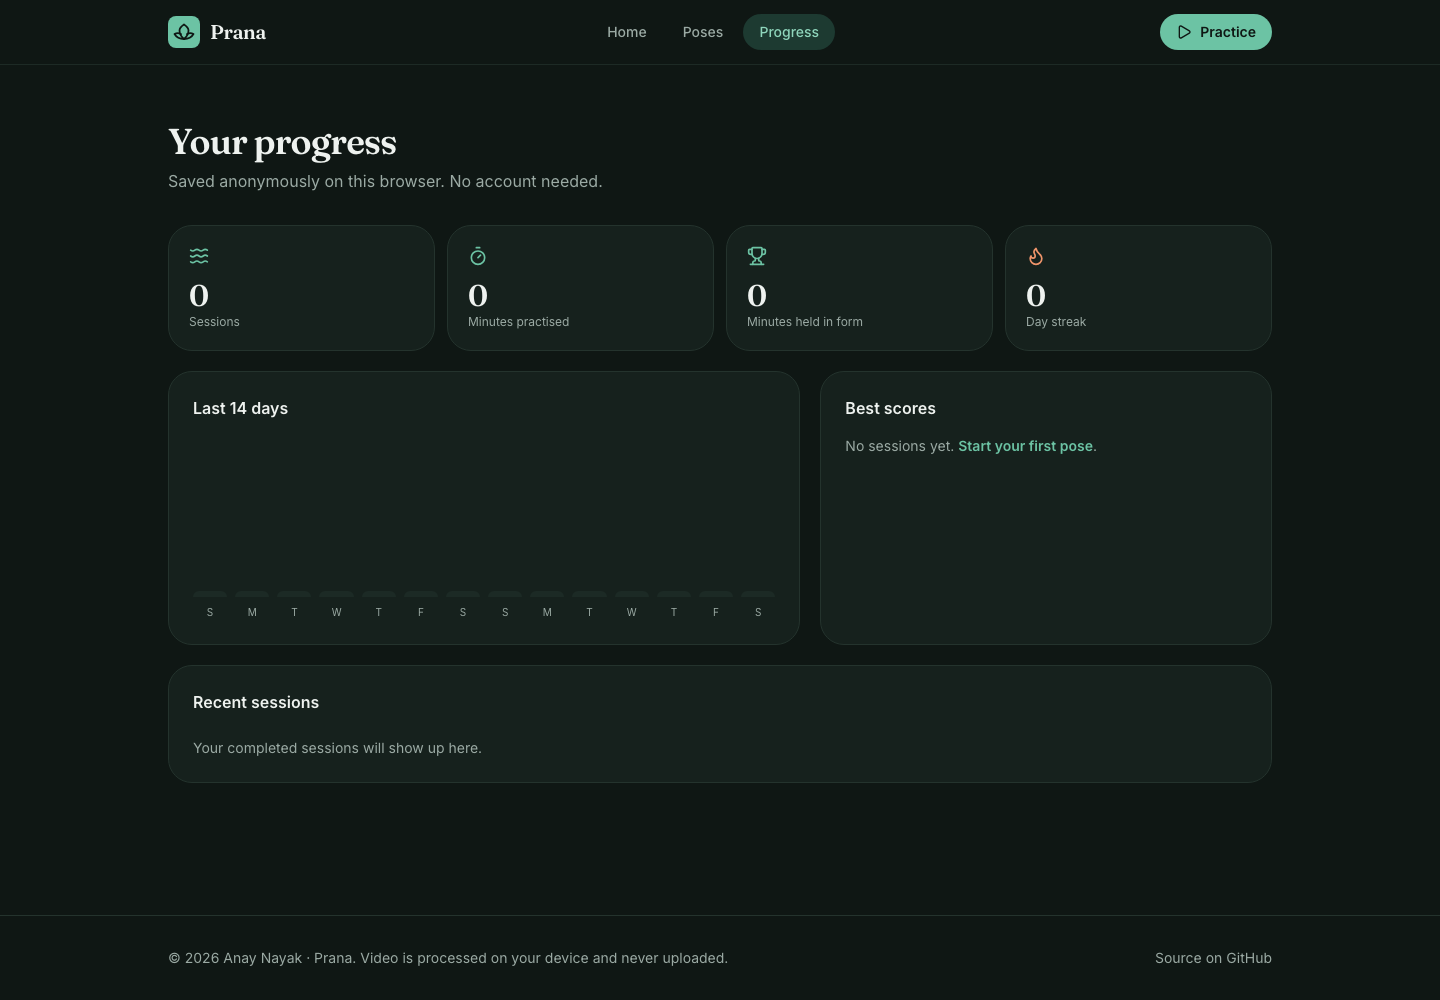
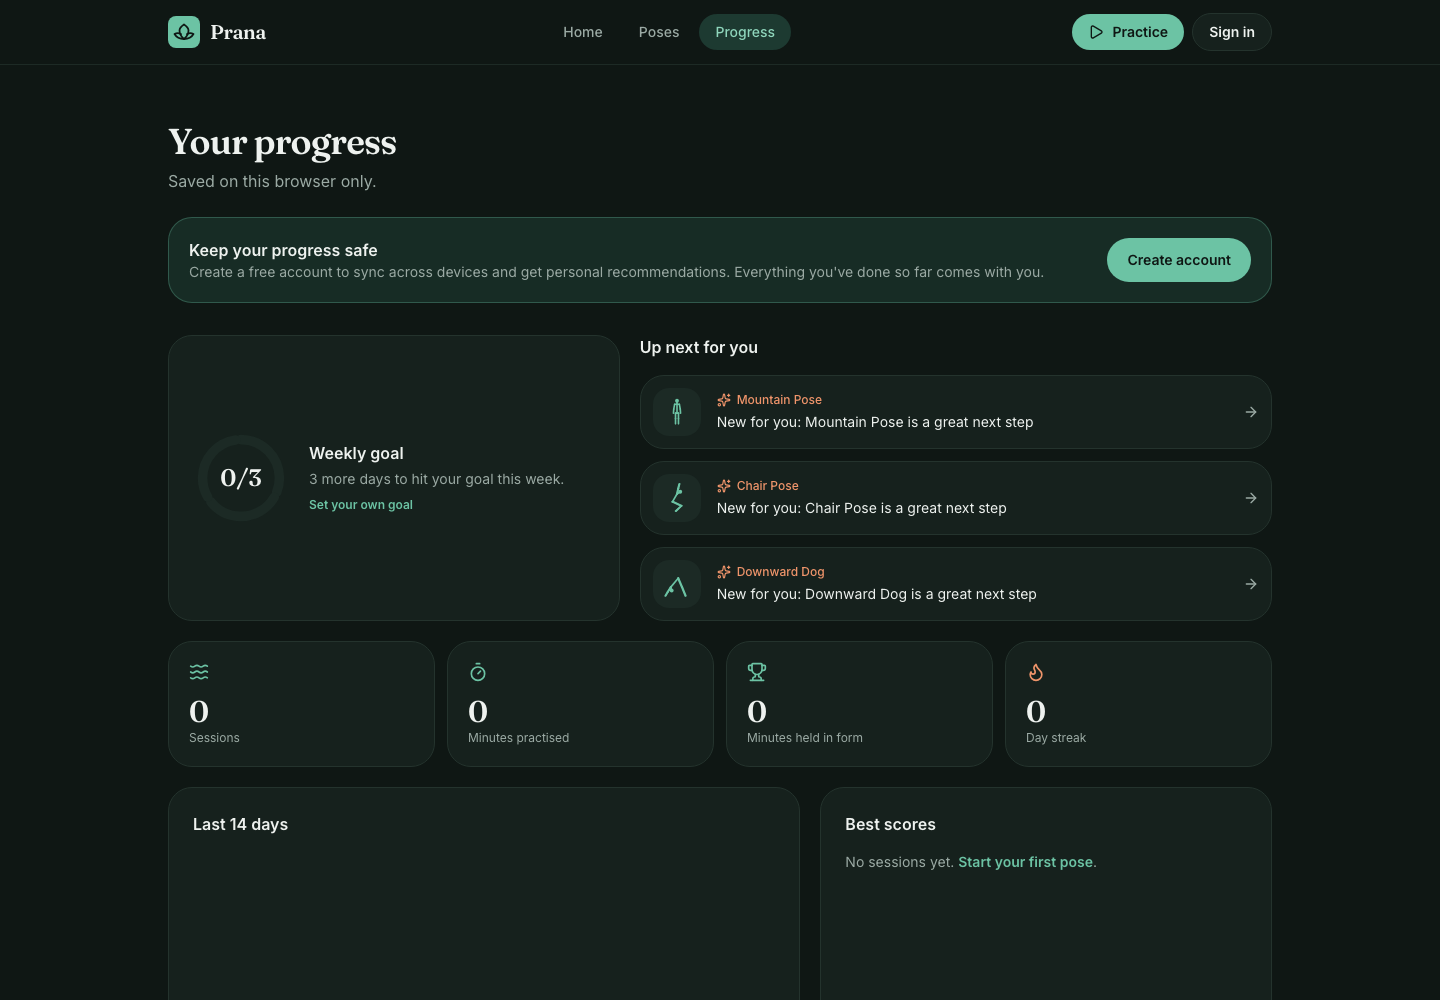
Document accounts, personal coaching and small-room support
- Features, architecture diagram (Google Identity Services, framing model)
- New sections with diagrams: small-room space awareness (fit decision
  flow) and accounts (guest-to-account sequence), recommendation formula
- Data model with auth_sessions and profile fields; auth security notes
- API, configuration (GOOGLE_CLIENT_ID setup), project structure, roadmap
- Refreshed Progress screenshot

diff --git a/README.md b/README.md
@@ -35,8 +35,11 @@ Prana watches your form through your camera, measures every joint in 3D, scores 
 | 🔁 **Either-side detection** | Asymmetric poses (Tree, Warrior II, Triangle) are scored in both orientations, so you can practise on whichever side you like. |
 | 🗣 **Spoken coaching** | Short, specific corrections ("Straighten your left leg") through the browser's speech engine, throttled so it never nags. |
 | ⏱ **Hold timer** | A pose only counts while you're in good alignment. Hold it for the target time to complete it. |
-| 📊 **Progress tracking** | Streaks, a 14-day activity chart, best score per pose and session history, all stored anonymously. |
-| 🔒 **Private by design** | Inference is 100% on-device. No accounts, no uploads. One click deletes everything the server knows about you. |
+| 🏠 **Small-room aware** | Measures how much space your camera sees (in multiples of *your* height), learns your room's limit, and tells you per pose whether it fits, to rotate your phone, switch to the 0.5× wide lens, or that it'll score the joints it can see. |
+| 👤 **Accounts (optional)** | Sign in with Google or email/password to sync across devices. Try it as a guest first: your guest progress moves into your account when you sign up. |
+| 🎯 **Personal coaching** | Weekly practice goal, score history per pose, your weakest joints, and "Up next for you" picks, each with a reason. |
+| 📊 **Progress tracking** | Streaks, a 14-day activity chart, best score per pose and session history. |
+| 🔒 **Private by design** | Inference is 100% on-device; video is never uploaded. Delete your data or your whole account in one click. |
 | 📱 **Mobile-first, responsive** | Works on phones, tablets and laptops, with a bottom tab bar on mobile and a screen wake lock during practice. |
 
 <table>
@@ -62,19 +65,26 @@ flowchart LR
         CAM[Camera<br/>getUserMedia] --> VID[Video frames]
         VID --> ML["MediaPipe Pose Landmarker<br/>BlazePose GHUM · WASM + WebGL2"]
         ML --> ENG["Pose engine<br/>3D angles · scoring · cues"]
+        ML --> FRAME["Framing & room model<br/>cut-offs · space in body-heights"]
         ENG --> UI["React UI<br/>overlay · score · hold timer"]
+        FRAME --> UI
         ENG --> TTS["Web Speech API<br/>voice coach"]
+        FRAME -. per-camera room profile .-> LS[(localStorage)]
     end
 
     subgraph Render["☁ Render (Docker web service)"]
-        API["FastAPI<br/>/api/*"]
+        API["FastAPI<br/>auth · poses · sessions · insights"]
         STATIC["Static files<br/>SPA · .task models · WASM"]
     end
 
-    DB[("PostgreSQL<br/>users · practice_sessions")]
+    DB[("PostgreSQL<br/>users · auth_sessions · practice_sessions")]
+    GIS["Google Identity Services"]
 
     STATIC -- "HTML/JS, model weights<br/>(one-time, cached)" --> Device
     UI -- "session summary only<br/>(JSON, no video)" --> API
+    UI -- "Sign in with Google" --> GIS
+    GIS -- "ID token" --> UI
+    API -- "verify token signature" --> GIS
     API --> DB
 ```
 
@@ -85,7 +95,9 @@ flowchart LR
 | Pose inference | Browser (GPU/WASM) | Real-time latency (~30 fps), privacy, zero inference cost |
 | Scoring, cues, voice | Browser | Must react every frame; no round trip |
 | Pose library (targets, cues) | API → `GET /api/poses` | Single source of truth, editable without a frontend release |
-| History, stats, streaks | API + Postgres | Survives browser restarts and redeploys; anonymous identity |
+| Framing & room awareness | Browser (+ localStorage per camera) | Needs every frame; a room profile is device-specific, not personal data |
+| Accounts, login sessions | API + Postgres | Server-side sessions, hashed tokens, revocable |
+| History, stats, goals, recommendations | API + Postgres | Synced across devices for accounts; guests keep an anonymous identity |
 | Model weights + WASM | Same origin, immutable cache | Self-hosted, SHA-256 pinned, no third-party CDN at runtime |
 
 ---
@@ -208,15 +220,92 @@ Joints that matter most for a pose carry more weight (e.g. the standing knee in 
 
 ---
 
+## 🏠 Small rooms: framing & space awareness
+
+Many people can't stand 3 m from their camera. Prana adapts instead of just saying "step back".
+
+**1. Show everything the camera sees.** The preview uses the camera's own aspect ratio with no cropping, and the stream is requested in portrait on portrait screens, so a standing body gets about 1.8× more vertical room on a phone.
+
+**2. Measure the space in body-heights.** From each visible body segment Prana knows its typical share of standing height (torso ≈ 0.30, thigh ≈ 0.245, shin ≈ 0.246, upper arm ≈ 0.186). Comparing a segment's length on screen with its real 3D length gives the camera's field of view at the user's distance, *in multiples of the user's own height*. That makes it independent of how tall they are:
+
+```
+scale  = max over segments( on-screen length / 3D length )       ← least foreshortened segment
+height = median over segments( 3D length / typical share )
+view   = 1 / (scale × height)  body-heights tall,  × aspect ratio wide
+```
+
+**3. Learn the room's limit.** The largest view seen on a camera is how far back this room lets the user go. It grows automatically during practice, or in one shot with **"Measure my space"** (step back as far as you can, then hold still). It is stored per camera in the browser.
+
+**4. Decide per pose.** Each pose records the space it needs (e.g. Warrior II ≈ 1.45 × 0.9 body-heights, Mountain ≈ 0.35 × 1.05):
+
+```mermaid
+flowchart TD
+    R["Room view (W × H body-heights)<br/>+ pose needs (w × h)"] --> F{"W ≥ w and H ≥ h?"}
+    F -- yes --> OK["✅ Fits your space"]
+    F -- no --> RO{"Fits if the phone is rotated?<br/>(swap W and H)"}
+    RO -- yes --> ROT["🔄 Turn your phone sideways / upright"]
+    RO -- no --> WL{"Device has a 0.5× ultra-wide lens<br/>and ~1.7× view would fit?"}
+    WL -- yes --> WIDE["🔭 Switch to the wide camera"]
+    WL -- no --> TIGHT["🧩 Tight fit: score the key joints that are visible"]
+```
+
+**5. Keep coaching when parts are out of frame.** Scoring needs only the pose's *key* joints (weight ≥ 1.5, e.g. the knees in Mountain Pose), not 70% of every joint. A hand leaving the frame no longer stops practice. Edges where the body is cut off glow, and the hint says what to do: *"Your feet are out of frame. Tilt the camera down slightly, or lower it to hip height."*
+
+These verdicts appear on the practice screen, in a **Your space** panel listing every pose, and as badges in the pose library.
+
+---
+
+## 👤 Accounts & personal coaching
+
+Prana works without an account. Signing in (Google or email/password) syncs progress across devices and unlocks personal goals.
+
+```mermaid
+sequenceDiagram
+    autonumber
+    actor U as User
+    participant App as React app
+    participant G as Google Identity Services
+    participant API as FastAPI
+    participant DB as Postgres
+
+    U->>App: Practise as a guest
+    App->>API: POST /api/sessions
+    API->>DB: create guest user (hashed guest token)
+    API-->>App: 201 + prana_id cookie (HttpOnly)
+    U->>App: Create account / Sign in
+    alt Google
+        App->>G: renderButton (popup)
+        G-->>App: ID token (JWT)
+        App->>API: POST /api/auth/google {credential}
+        API->>G: verify signature, audience, issuer, expiry
+    else Email + password
+        App->>API: POST /api/auth/signup or /login
+        API->>API: Argon2id hash / verify (constant work)
+    end
+    API->>DB: move guest sessions → account, delete guest
+    API->>DB: create login session (SHA-256 of token, 30-day expiry)
+    API-->>App: prana_session cookie (rotated) · guest cookie cleared
+    App->>API: GET /api/stats · /api/recommendations
+    API-->>App: weekly goal, history, "Up next for you"
+```
+
+**Personalization**
+- **Profile:** name, experience level (beginner / intermediate / advanced) and a weekly goal of 1–7 days, shown as a segmented ring.
+- **Per-pose history:** average and best score per session over time, plus joint averages with the weakest joint highlighted.
+- **Recommendations:** each pose is ranked by `(100 − recent average) × 0.6 + days since practised × 2.5`, with a boost that grows as a joint gets weaker (15 + (70 − score) × 0.5 below 70). Untried poses are scored by how well their level matches yours. Every pick comes with a plain reason, e.g. *"Your left hip averages 42 in Plank Pose. Let's work on it."*
+
+---
+
 ## 🧰 Tech stack
 
 | Layer | Technology |
 |---|---|
 | **ML** | MediaPipe Tasks Vision `1.1.0`, Pose Landmarker (BlazePose GHUM full + heavy, float16), WebGL2 GPU delegate, WASM SIMD fallback |
 | **Frontend** | React 19, TypeScript, Vite 8, Tailwind CSS v4, React Router 7, Lucide icons, Web Speech API, Screen Wake Lock API |
-| **Backend** | Python 3.12, FastAPI, Pydantic v2, SQLAlchemy 2, Uvicorn, SlowAPI (rate limiting) |
+| **Backend** | Python 3.12, FastAPI, Pydantic v2, SQLAlchemy 2, Alembic migrations, Uvicorn, SlowAPI (rate limiting) |
+| **Auth** | Google Identity Services (ID tokens verified with `google-auth`), Argon2id (`argon2-cffi`) password hashing, server-side sessions |
 | **Database** | PostgreSQL (production) · SQLite (local dev / fallback) |
-| **Testing** | Pytest (API, security, validation, rate limits) · Vitest (geometry & scoring) · Docker smoke test |
+| **Testing** | Pytest on SQLite *and* Postgres (API, auth, migrations, security, rate limits) · Vitest (geometry, scoring, framing) · Docker smoke test |
 | **Quality** | Ruff (lint + format), strict TypeScript, hash-pinned Python deps, npm lockfile |
 | **Infra** | Multi-stage Docker image, Render Blueprint (web service + managed Postgres), GitHub Actions CI |
 
@@ -229,10 +318,25 @@ Only **summaries** are stored, never images, video or landmarks.
 ```mermaid
 erDiagram
     USERS ||--o{ PRACTICE_SESSIONS : has
+    USERS ||--o{ AUTH_SESSIONS : "signed in on"
     USERS {
         int id PK
-        string token_hash "SHA-256 of a 256-bit random token"
+        bool is_guest
+        string token_hash "guests: SHA-256 of guest token"
+        string email "accounts: unique, lower-cased"
+        string password_hash "Argon2id, null for Google-only"
+        string google_sub "Google account id"
+        string display_name
+        string experience_level
+        int weekly_goal_days
         datetime created_at
+    }
+    AUTH_SESSIONS {
+        int id PK
+        int user_id FK
+        string token_hash "SHA-256 of session token"
+        datetime created_at
+        datetime expires_at
     }
     PRACTICE_SESSIONS {
         int id PK
@@ -253,13 +357,18 @@ erDiagram
 
 - **On-device inference.** Camera frames are processed in the browser and are never sent anywhere.
 - **Anonymous identity.** The first save issues a 256-bit random token in an `HttpOnly`, `Secure`, `SameSite=Lax` cookie scoped to `/api`. The server stores only its SHA-256 hash, and every query is scoped to the caller's user id.
+- **Passwords.** Argon2id with the library's recommended parameters, re-hashed when those change. Unknown emails still run one Argon2 verification, so response time doesn't reveal which emails are registered. Common and trivially weak passwords are rejected.
+- **Login sessions.** Server-side, 256-bit tokens stored only as SHA-256 hashes, 30-day expiry. They rotate on every sign-in, are invalidated on logout, and are all revoked on account deletion.
+- **Google sign-in.** The ID token's signature, audience, issuer and expiry are verified server-side, and the email must be Google-verified. Signing in with Google to an email that has an (unverified) password account links them but **revokes that password and its sessions**, which blocks account pre-hijacking.
+- **Brute force.** Per-IP limits on all auth routes plus a per-email limit on login.
+- **Redirects.** Post-login redirects only go to in-app paths (no open redirects).
 - **CSRF.** State-changing requests must carry an allow-listed `Origin` and a JSON content type (which forces a CORS preflight cross-site).
 - **Strict input validation.** Pydantic schemas with `extra="forbid"`, numeric ranges, a known-pose allow-list and cross-field checks. Validation errors never echo submitted values.
 - **Rate limiting.** Per-IP *and* per-identity limits (SlowAPI). Client IPs are taken only from proxy-appended `X-Forwarded-For` entries, so a spoofed header can't dodge the limit. Point `RATE_LIMIT_STORAGE_URI` at Redis when running more than one instance.
-- **Security headers.** A strict CSP (`script-src 'self' 'wasm-unsafe-eval'`, `connect-src 'self'`, `frame-ancestors 'none'`), HSTS, `nosniff`, `X-Frame-Options: DENY`, and a `Permissions-Policy` that allows the camera for this origin only.
+- **Security headers.** A strict CSP (`script-src 'self' 'wasm-unsafe-eval'` plus only Google's sign-in script, `connect-src 'self'`, `frame-ancestors 'none'`), HSTS, `nosniff`, `X-Frame-Options: DENY`, and a `Permissions-Policy` that allows the camera for this origin only.
 - **Supply chain.** Model files are downloaded from a pinned version and **SHA-256 verified** at build. Python dependencies are installed with `--require-hashes`.
 - **Least privilege.** The container runs as a non-root user, and the database accepts private-network connections only.
-- **Right to be forgotten.** `DELETE /api/sessions` (the "Delete my data" button) removes the user, their sessions and the cookie.
+- **Right to be forgotten.** "Delete my data" (`DELETE /api/sessions`) clears practice history, and "Delete account" (`DELETE /api/me`) removes the account, its login sessions and all history.
 
 ---
 
@@ -271,22 +380,30 @@ prana/
 │   ├── app/
 │   │   ├── main.py          # FastAPI app, error handlers, SPA static serving
 │   │   ├── api.py           # /api routes: poses, sessions, stats
-│   │   ├── poses.py         # Pose library: target angles, cues, illustrations
-│   │   ├── security.py      # Identity cookie, CSRF, headers, rate limits
+│   │   ├── auth.py          # Guests, passwords, login sessions, Google, guest merge
+│   │   ├── auth_api.py      # /api/auth/*, /api/me, /api/config
+│   │   ├── insights.py      # Pose history and recommendations
+│   │   ├── poses.py         # Pose library: targets, space needs, cues, illustrations
+│   │   ├── security.py      # CSRF, headers, client IPs, rate limits
 │   │   ├── schemas.py       # Pydantic request/response models
 │   │   ├── models.py        # SQLAlchemy tables
+│   │   ├── migrate.py       # Runs Alembic on startup (stamps pre-migration DBs)
 │   │   ├── db.py · config.py
-│   ├── tests/               # Pytest suite
+│   ├── migrations/          # Alembic: 0001 baseline, 0002 accounts
+│   ├── tests/               # Pytest suite (runs on SQLite and Postgres)
 │   └── requirements*.txt    # Hash-pinned dependencies
 ├── frontend/
 │   ├── src/
 │   │   ├── lib/
 │   │   │   ├── pose-engine.ts   # Loads MediaPipe (GPU → CPU fallback)
-│   │   │   ├── geometry.ts      # 3D angles, scoring, mirroring, cues (+ tests)
+│   │   │   ├── geometry.ts      # 3D angles, scoring, key joints, mirroring, cues (+ tests)
+│   │   │   ├── framing.ts       # Cut-off detection, space in body-heights, fit verdicts (+ tests)
+│   │   │   ├── camera.ts        # Camera/lens selection, orientation-aware streams
+│   │   │   ├── auth.tsx         # Auth context
 │   │   │   ├── voice.ts         # Throttled speech coach
 │   │   │   └── api.ts           # Typed API client
-│   │   ├── pages/           # Home, Library, Practice, Progress
-│   │   └── components/      # Layout, PoseFigure, ScoreRing, …
+│   │   ├── pages/           # Home, Library, Practice, Progress, PoseProgress, SignIn, Profile
+│   │   └── components/      # Layout, PoseFigure, SpaceCard, GoogleButton, Recommendations, …
 │   └── scripts/fetch-models.mjs # Pinned, checksum-verified model download
 ├── Dockerfile               # Multi-stage: Node build → slim Python runtime
 ├── render.yaml              # One-click Render Blueprint
@@ -328,8 +445,11 @@ docker run -p 8000:8000 -e APP_ENV=development prana   # http://localhost:8000
 
 ```bash
 cd backend && pip install --no-deps -r requirements-dev.txt && pytest && ruff check .
+DATABASE_URL=postgresql://user:pass@localhost:5432/prana_test pytest   # same suite on Postgres
 cd frontend && npm test && npm run typecheck
 ```
+
+Schema changes are made with Alembic (`cd backend && alembic revision -m "..."`). Migrations run automatically when the app starts.
 
 ---
 
@@ -360,6 +480,10 @@ flowchart LR
 | `ALLOWED_ORIGINS` | `RENDER_EXTERNAL_URL` | Extra comma-separated origins, e.g. a custom domain |
 | `RATE_LIMIT_STORAGE_URI` | `memory://` | e.g. `redis://…` for multi-instance rate limiting |
 | `TRUSTED_PROXY_HOPS` | `0` (`3` on Render) | Proxies that append to `X-Forwarded-For`; only those entries are trusted for client IPs |
+| `GOOGLE_CLIENT_ID` | *(unset)* | Public OAuth client ID; enables "Sign in with Google". Email/password works without it |
+| `SESSION_DAYS` | `30` | Login session lifetime |
+
+**Enabling Google sign-in:** in [Google Cloud Console](https://console.cloud.google.com/apis/credentials), create an *OAuth client ID* of type **Web application**. Add your site URL (e.g. `https://prana-yjwl.onrender.com`) under **Authorized JavaScript origins**, and add `http://localhost:8000` and `http://localhost:5173` for local development. Then put the client ID in `GOOGLE_CLIENT_ID` (Render → service → Environment). No client secret is needed: the browser receives a signed ID token and the API verifies it.
 
 > **Free-tier notes.** Render's free web services sleep after 15 minutes of inactivity, so the first request after that takes around a minute. Free Postgres databases expire after 30 days. For a long-lived demo, upgrade the database, or point `DATABASE_URL` at any Postgres provider (e.g. Neon or Supabase). The practice experience itself never depends on the backend being awake once the page has loaded.
 
@@ -375,14 +499,19 @@ Interactive docs at **`/api/docs`** (OpenAPI).
 | `GET` | `/api/poses` | Pose library with targets, cues and illustrations |
 | `POST` | `/api/sessions` | Save a practice summary (creates the anonymous identity on first call) |
 | `GET` | `/api/sessions?limit=50` | Caller's recent sessions |
-| `GET` | `/api/stats?tz_offset=330` | Totals, streak, 14-day minutes, best per pose |
-| `DELETE` | `/api/sessions` | Delete all of the caller's data |
+| `GET` | `/api/stats?tz_offset=330` | Totals, streak, weekly goal, 14-day minutes, best per pose |
+| `GET` | `/api/poses/{id}/history` | Score history and joint averages for one pose |
+| `GET` | `/api/recommendations` | Up to three "practise next" picks with reasons |
+| `DELETE` | `/api/sessions` | Delete the caller's practice history |
+| `GET` | `/api/config` | Public client config (Google client ID) |
+| `POST` | `/api/auth/signup` · `/login` · `/google` · `/logout` | Create account / sign in / sign out (merges guest progress) |
+| `GET` · `PATCH` · `DELETE` | `/api/me` | Current user, update profile and goal, delete account |
 
 ---
 
 ## ➕ Adding a pose
 
-1. Add an entry to `POSES` in [`backend/app/poses.py`](backend/app/poses.py) with target angles (interior 3D angles, 0–180°), tolerances, weights, cues and a stick-figure `figure`.
+1. Add an entry to `POSES` in [`backend/app/poses.py`](backend/app/poses.py) with target angles (interior 3D angles, 0–180°), tolerances, weights (≥ 1.5 marks a key joint), cues, the `space` it needs on camera (in body heights) and a stick-figure `figure`.
 2. Set `mirror: true` if the pose can be done on either side.
 3. Run `pytest`. The suite checks that every target references a known joint and a valid angle.
 
@@ -392,11 +521,13 @@ No frontend change is needed: the UI, scoring and illustrations are all data-dri
 
 ## 🗺 Roadmap
 
+- [x] Optional sign-in to sync progress across devices (Google + email/password)
+- [x] Small-room support: space measurement, per-pose fit advice, key-joint scoring
+- [ ] Password reset and email verification (needs an email provider)
 - [ ] Guided flows (sequences of poses with transitions)
 - [ ] Breath pacing with an audio metronome
-- [ ] Per-user calibration for limited mobility
+- [ ] Per-user strictness for limited mobility
 - [ ] Installable PWA with offline practice
-- [ ] Optional sign-in to sync progress across devices
 
 ---
 
